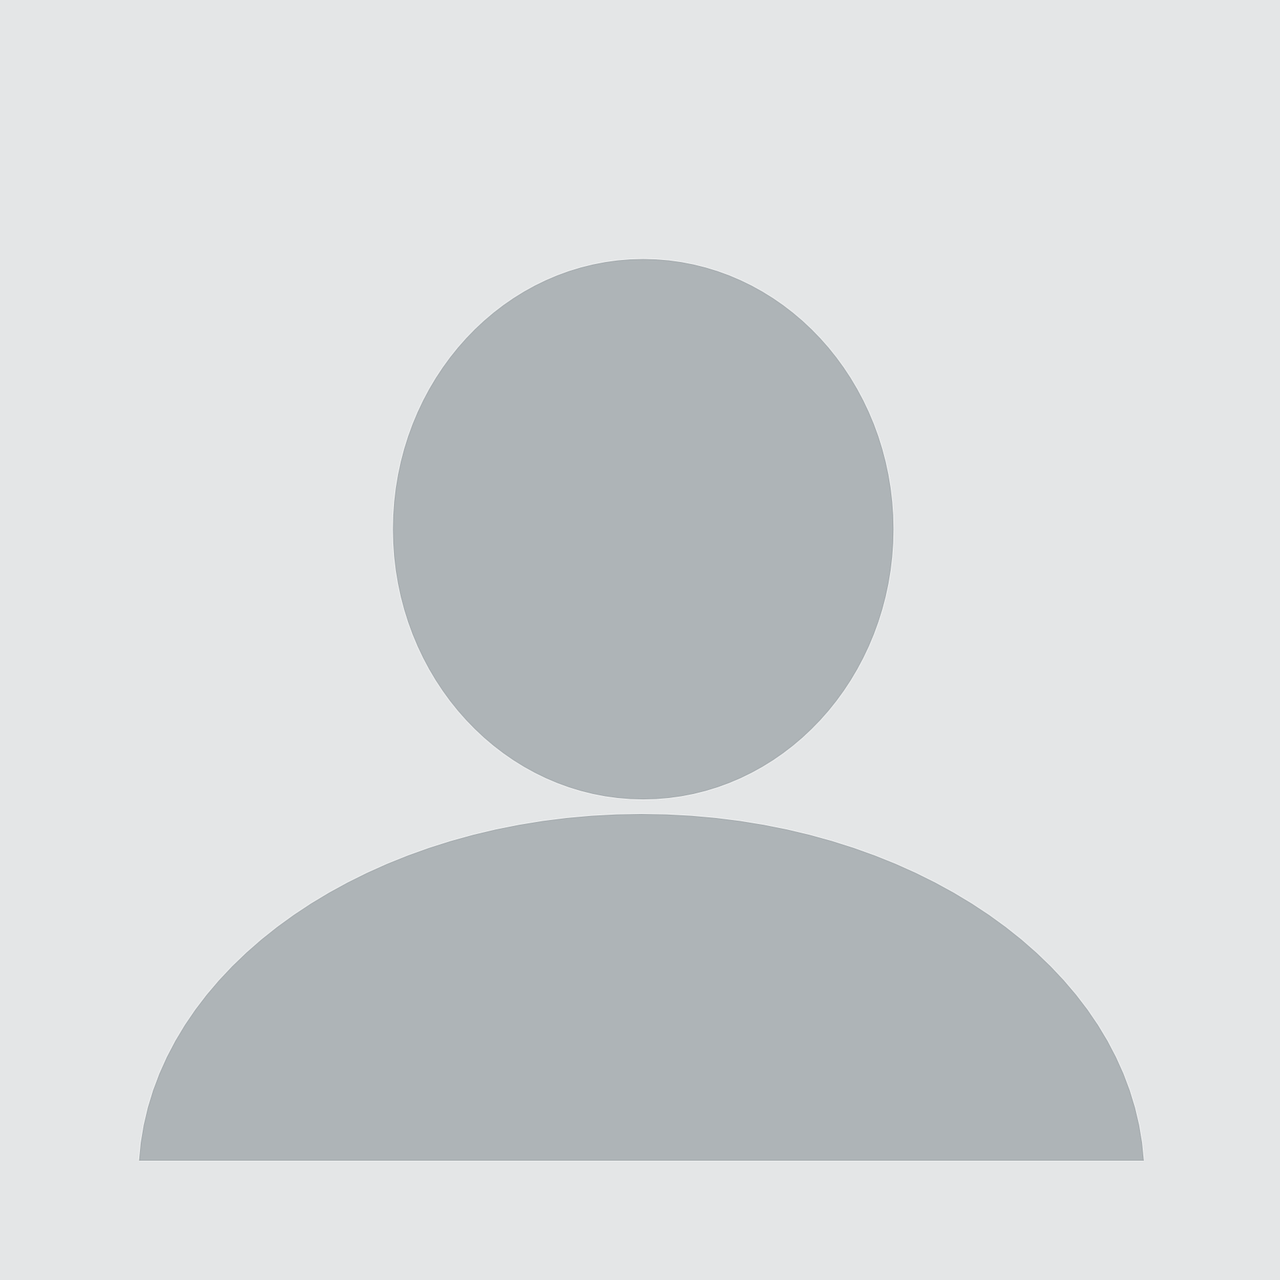
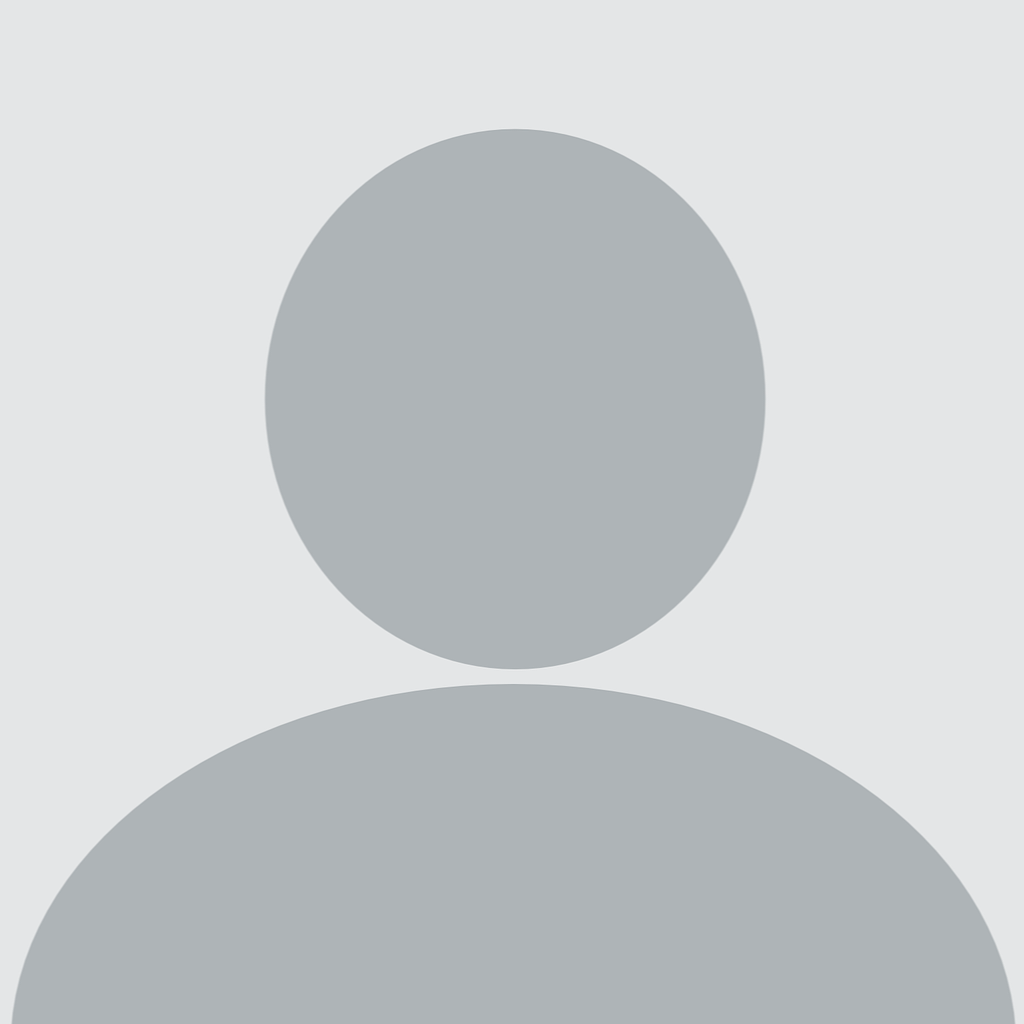
small bugs

Changed region(s): [[0.1875, 0.125, 0.8125, 0.75], [0.0, 0.75, 1.0, 1.0], [0.1562, 0.75, 0.1875, 0.7812]]

diff --git a/assets/scripts/login_signup.js b/assets/scripts/login_signup.js
@@ -12,21 +12,37 @@ loginBtn = document.getElementById("login-btn");
 signupBtn = document.getElementById("signup-btn");
 
 loginBtn.addEventListener("click", () => {
-    //alert('login');
-    
     userId = input[0].value;
     email = input[1].value;
+    
+    if (!userId) {
+        alert("Must enter User ID");
+        return;
+    }
+    
+    if (!email) {
+        alert("Must enter Email");
+        return;
+    }
     
     login(userId, email);
 });
 
 signupBtn.addEventListener("click", () => {
-    alert('signup');
-    
     name = input[2].value;
     email = input[3].value;
     
+    if (!name) {
+        alert("Must enter Name");
+        return;
+    }
     
+    if (!email) {
+        alert("Must enter Email");
+        return;
+    }
+    
+    signup(name, email);
 });
 
 function showSignup() {
@@ -50,19 +66,22 @@ async function login(name, email) {
         const { data, error } = await supabase
             .from("user")
             .select("*")
-            .eq("id", userId);
-            //.eq("email", email)
+            .eq("id", userId)
+            .eq("email", email);
         
-        if (error) console.log(error);
-        
-        if (!data[0]) {
-            alert("No account found with your userId and email");
+        if (error) {
+            console.log(error);
+            alert(error);
         } else {
-            const user = JSON.stringify(data[0]);
-            localStorage.setItem("knowletUser", user);
+            if (!data[0]) {
+                alert("No account found with your User Id and Email");
+            } else {
+                const user = JSON.stringify(data[0]);
+                localStorage.setItem("knowletUser", user);
+                alert("Successfully Loged In");
+                window.location.href = "profile.html";
+            }
         }
-        
-        console.log(data);
         
     } catch(e) {
         console.log(e);
@@ -70,18 +89,24 @@ async function login(name, email) {
 }
 
 async function signup(name, email) {
+    user = {
+        id: lastUserId,
+        name: name,
+        email: email
+    }
     try {
         const { error } = await supabase
             .from("user")
-            .insert({
-                id: lastUserId,
-                name: name,
-                email: email
-            });
+            .insert(user);
         
-        if (error) console.log(error);
-        
-        alert("Done")
+        if (error) {
+            console.log(error);
+            alert(error);
+        } else {
+            localStorage.setItem("knowletUser", JSON.stringify(user));
+            alert("Successfully Signed Up\n" + "User ID: " + lastUserId);
+            window.location.href = "profile.html";
+        }
     } catch(e) {
         console.log(e);
     }

diff --git a/assets/scripts/profile_complition_form.js b/assets/scripts/profile_complition_form.js
@@ -8,10 +8,19 @@ const inputEdu = document.getElementById("sltEdu")
 const btnSubmit = document.getElementById("submit-btn");
 
 const userId = JSON.parse(localStorage.getItem("knowletUser")).id;
-const userName = JSON.parse(localStorage.getItem("knowletUser")).name;
 
-input[0].value = userName;
-document.getElementById("user-id").textContent = "Your User ID: " + userId;
+function load() {
+    const user = JSON.parse(localStorage.getItem("knowletUser"));
+    
+    document.getElementById("user-id").textContent = "Your User ID: " + userId;
+    
+    input[0].value = user.name;
+    input[1].value = user.email;
+    input[2].value = user.age ? user.age : null;
+    input[3].value = user.fv_subject ? user.fv_subject : null;
+    input[4].value = user.stream ? user.stream : null;
+    inputEdu.value = user.standered ? user.standered : "";
+}
 
 btnSubmit.addEventListener("click", () => {
     
@@ -20,11 +29,22 @@ btnSubmit.addEventListener("click", () => {
     const age = input[2].value ? Number(input[3].value) : 0;
     const fvSubject = input[3].value;
     const stream = input[4].value;
-    const standered = inputEdu.value;
+
+    const standered = inputEdu.value
+    
+    if (!name) {
+        alert("Must enter Name");
+        return;
+    }
+    
+    if (!email) {
+        alert("Must enter Email");
+        return;
+    }
     
     const user = {
         id: userId,
-        name: name ? name : userName,
+        name: name,
         email: email,
         age: age,
         fv_subject: fvSubject,
@@ -33,14 +53,13 @@ btnSubmit.addEventListener("click", () => {
     }
 
     localStorage.setItem("knowletUser", JSON.stringify(user))
-    console.log(user)
+    console.log(user);
     
     //reset
     for (i = 0; i < input.length; i++) {
         input[i].value = null;
     }
     inputEdu.value = "";
-    //window.close;
     sync()
 });
 
@@ -53,12 +72,18 @@ async function sync() {
             .from("user")
             .update(user)
             .eq("id", userId);
-            
+        
         if (error) {
-            console.log(error);   
+            console.log(error);  
+            alert(error);
+        } else {
+            alert("Successfully Submitted");
+            window.location.href = "profile.html";
         }
     
     } catch(e) {
         console.log(e)
     }
 }
+
+load()

diff --git a/profile.html b/profile.html
@@ -36,13 +36,13 @@
         
         /* BUTTONS */
         .actions button {
-            padding: 8px 16px;
-            border-radius: 6px;
+            padding: 5px 10px;
+            border-radius: 4px;
             border: 1px solid #333;
             background: #fafafa;
             cursor: pointer;
             transition: 0.2s;
-            font-size: 14px;
+            font-size: 10px;
         }
         
         .actions button:hover {
@@ -201,7 +201,7 @@
         <div class="actions">
             <button id="login-signup-btn" onclick="window.location.href='login_signup.html'">Login / Sign Up</button>
             <button id="logout-btn" style="display:none;">Logout</button>
-            <button id="login-signup-btn" onclick="window.location.href='profile_complition_form.html'">Complete Profile</button>
+            <!-- <button id="com-profile-btn" onclick="window.location.href='profile_complition_form.html'" style="display:none;">Complete Profile</button> -->
         </div>
     </div>
 
@@ -209,10 +209,11 @@
 
         <!-- PROFILE CARD -->
         <div class="card profile-header">
-            <img src="assets/demo_pp.png" id="profile-pic">
+            <img onclick="window.location.href='profile_complition_form.html'" src="assets/demo_pp.png" id="profile-pic">
 
             <div>
                 <h1 id="username">Your Name</h1>
+                <h2>FirstName@1234</h2>
                 <p id="email">yourname@example.com</p>
 
                <!--  <div class="stats-box">

diff --git a/profile_complition_form.html b/profile_complition_form.html
@@ -64,6 +64,36 @@
             color: ;
         }
         
+        /* CARD */
+        /* .card {
+            background: #ffffff;
+            padding: 22px;
+            border-radius: 14px;
+            margin-bottom: 28px;
+            box-shadow: 0 3px 12px rgba(0,0,0,0.08);
+            transition: 0.25s;
+        }
+        
+        .card:hover {
+            box-shadow: 0 5px 18px rgba(0,0,0,0.12);
+        } */
+        
+        /* PROFILE HEADER */
+        .profile-header {
+            /* display: flex;
+            align-items: center;
+            gap: 24px; */
+            margin: 6px;
+        }
+        
+        #profile-pic {
+            width: 100px;
+            border-radius: 50%;
+            background: linear-gradient(#ddd, #ccc);
+            object-fit: cover;
+            border: 3px solid #e5e5e5;
+            box-shadow: 0 3px 10px rgba(0,0,0,0.1);
+        }
     </style>
 </head>
 <body>
@@ -72,6 +102,10 @@
     <h2>Complete Your Profile</h2>
 
     <form>
+        <div class="card profile-header">
+            <img src="assets/demo_pp.png" id="profile-pic">
+        </div>
+        
         <div class="field">
             <label>Full Name</label>
             <input style="margin-bottom: 0" class="user-input" type="text" placeholder="Enter your name" required>

diff --git a/assets/scripts/profile.js b/assets/scripts/profile.js
@@ -1,4 +1,6 @@
-const LoginSignupBtn = document.getElementById("login-signup-btn");
+const loginSignupBtn = document.getElementById("login-signup-btn");
+const logoutBtn = document.getElementById("logout-btn");
+const comProfileBtn = document.getElementById("com-profile-btn");
 
 const userName = document.getElementById("username");
 const email = document.getElementById("email");
@@ -8,8 +10,28 @@ function sync() {
     const user = JSON.parse(localStorage.getItem("knowletUser"));
     console.log(user);
     
-    userName.textContent = user.name;
-    email.textContent = '' + user.email;
+    if (user) {
+        userName.textContent = user.name;
+        email.textContent = '' + user.email;
+        
+        loginSignupBtn.style.display = "none";
+        logoutBtn.style.display = "block";
+        comProfileBtn.style.display = "block";
+    } else {
+        userName.textContent = "your Name";
+        email.textContent = "yourname@example.com";
+        
+        loginSignupBtn.style.display = "block";
+        logoutBtn.style.display = "none";
+        comProfileBtn.style.display = "none";
+    }
+        
 }
+
+logoutBtn.addEventListener("click", () => {
+    localStorage.clear();
+    
+    sync()
+});
 
 sync()

diff --git a/assets/scripts/supabase.js b/assets/scripts/supabase.js
@@ -215,20 +215,28 @@ function renderAverageStars(avg) {
 
 //User Functions 
 
+// function AboutUser() {
+//     if (!user) {
+//         const name = prompt('Enter your name: (eg. Sneha Kumari Patel)');
+//         if (name) {
+//             const id = name.split(' ')[0] + "@" + parseInt(Math.random() * 9000 + 1000);
+            
+//             user = {
+//                 id: id,
+//                 name: name
+//             };
+            
+//             localStorage.setItem("knowletUser", JSON.stringify(user));
+//             submitUserInfo();
+//         }
+//     } 
+// }
+
 function AboutUser() {
     if (!user) {
-        const name = prompt('Enter your name: (eg. Sneha Kumari Patel)');
-        if (name) {
-            const id = name.split(' ')[0] + "@" + parseInt(Math.random() * 9000 + 1000);
-            
-            user = {
-                id: id,
-                name: name
-            };
-            
-            localStorage.setItem("knowletUser", JSON.stringify(user));
-            submitUserInfo();
-        }
+        setTimeout(() => {
+            window.location.href = "../../../../login_signup.html";
+        }, 5000);
     } 
 }
 
